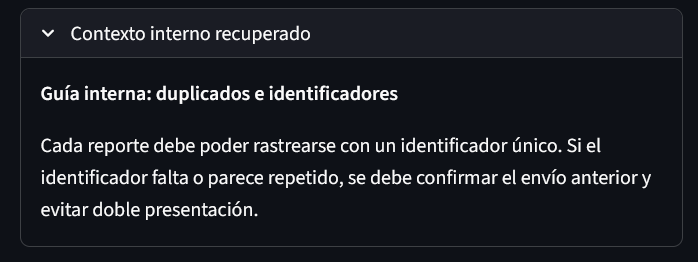
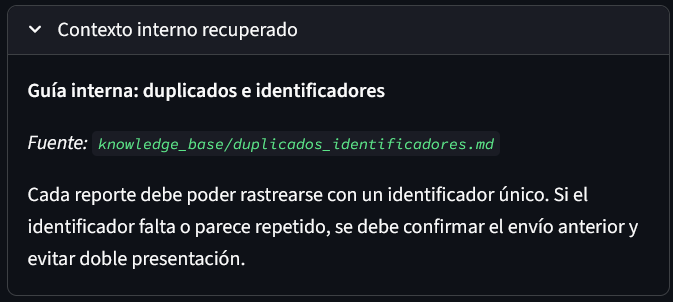
Seccion de casos criticos fue agregado al Streamlit, y ahora tambien se puede visualizar cual fue el documento por el cual el contexto del RAG fue recuperado.

diff --git a/main.py b/main.py
@@ -31,6 +31,14 @@ COLUMNAS_TABLA = [
     "mensaje_tecnico",
 ]
 
+ORDEN_PRIORIDAD = {
+    "Crítica": 1,
+    "Alta": 2,
+    "Media": 3,
+    "Baja": 4,
+    "Requiere revisión": 5,
+}
+
 
 def cargar_datos_ejemplo() -> pd.DataFrame:
     """Carga el dataset sintético incluido en el proyecto."""
@@ -115,6 +123,33 @@ def mostrar_filtros(registros: pd.DataFrame):
 def mostrar_tabla_registros(registros_filtrados: pd.DataFrame) -> None:
     st.subheader("Entradas de cumplimiento")
     st.dataframe(registros_filtrados[COLUMNAS_TABLA], width="stretch", hide_index=True)
+
+
+def mostrar_casos_prioritarios(registros_filtrados: pd.DataFrame) -> None:
+    st.subheader("Casos prioritarios")
+    casos_prioritarios = registros_filtrados.loc[
+        registros_filtrados["resultado"] == "Con incidencias"
+    ].copy()
+    casos_prioritarios["prioridad"] = casos_prioritarios["severidad"].map(ORDEN_PRIORIDAD).fillna(99)
+    casos_prioritarios = casos_prioritarios.sort_values(["prioridad", "fecha_hora"]).head(8)
+
+    if casos_prioritarios.empty:
+        st.info("No hay incidencias para priorizar con los filtros actuales.")
+        return
+
+    st.dataframe(
+        casos_prioritarios[
+            [
+                "id_reporte",
+                "entidad",
+                "severidad",
+                "tipo_incidencia",
+                "codigo_error",
+            ]
+        ],
+        width="stretch",
+        hide_index=True,
+    )
 
 
 def mostrar_inspector_registro(registros_filtrados: pd.DataFrame, modelo_seleccionado: str, modo_explicacion: str) -> None:
@@ -217,6 +252,7 @@ def main() -> None:
     registros_filtrados = filtrar_registros(registros, *filtros)
     mostrar_dashboard(registros_filtrados)
     mostrar_tabla_registros(registros_filtrados)
+    mostrar_casos_prioritarios(registros_filtrados)
     mostrar_inspector_registro(registros_filtrados, modelo_seleccionado, modo_explicacion)
     mostrar_exportaciones(registros_filtrados)
 

diff --git a/src/monitor_normativo/knowledge_base.py b/src/monitor_normativo/knowledge_base.py
@@ -14,6 +14,7 @@ class DocumentoConocimiento:
     titulo: str
     palabras_clave: list[str]
     contenido: str
+    fuente: str
 
 
 def leer_documento_markdown(ruta: Path) -> DocumentoConocimiento:
@@ -37,6 +38,7 @@ def leer_documento_markdown(ruta: Path) -> DocumentoConocimiento:
         titulo=metadatos.get("titulo", ruta.stem.replace("_", " ").title()),
         palabras_clave=palabras_clave,
         contenido=contenido.strip(),
+        fuente=str(ruta.relative_to(CARPETA_BASE)).replace("\\", "/"),
     )
 
 
@@ -75,6 +77,8 @@ def recuperar_contexto_interno(registro: pd.Series, limite: int = 2) -> str:
         return "- No hay una guía interna específica; solicitar revisión técnica si el caso no es claro."
 
     return "\n\n".join(
-        f"**{documento.titulo}**\n\n{documento.contenido.strip()}"
+        f"**{documento.titulo}**\n\n"
+        f"*Fuente: `{documento.fuente}`*\n\n"
+        f"{documento.contenido.strip()}"
         for documento in documentos_relevantes
     )

diff --git a/README.md b/README.md
@@ -44,6 +44,7 @@ Dashboard en Streamlit que analiza logs técnicos de reportes CRC y los conviert
 | Modelo local | <img src="assets/readme/modelo-local.png" alt="Modelo local" width="320"> |
 | Modo de explicación | <img src="assets/readme/modo-explicacion.png" alt="Modo de explicación" width="320"> |
 | Tabla de registros | <img src="assets/readme/tabla-registros.png" alt="Tabla de registros" width="520"> |
+| Casos prioritarios | <img src="assets/readme/casos-prioritarios.png" alt="Casos prioritarios" width="520"> |
 | Incidencias frecuentes | <img src="assets/readme/incidencias-frecuentes.png" alt="Incidencias frecuentes" width="520"> |
 | Inspector de entrada | <img src="assets/readme/inspector.png" alt="Inspector" width="520"> |
 | Contexto RAG recuperado | <img src="assets/readme/contexto-rag.png" alt="Contexto RAG" width="520"> |
@@ -59,6 +60,16 @@ Dashboard en Streamlit que analiza logs técnicos de reportes CRC y los conviert
 | Two-shot prompting | Incluye dos ejemplos para guiar tono, formato y nivel de detalle. |
 | Mini RAG | Puntúa documentos `.md` por coincidencias y agrega el contexto más relevante al prompt. |
 | Self-consistency ligera | En modo mejorado, genera varias alternativas y muestra la más clara. |
+
+## Priorización
+
+Debajo de la tabla principal, el dashboard muestra los casos más urgentes según severidad:
+
+```text
+Crítica → Alta → Media → Baja → Requiere revisión
+```
+
+El contexto recuperado por RAG también muestra el archivo fuente consultado.
 
 ## Datos sintéticos
 